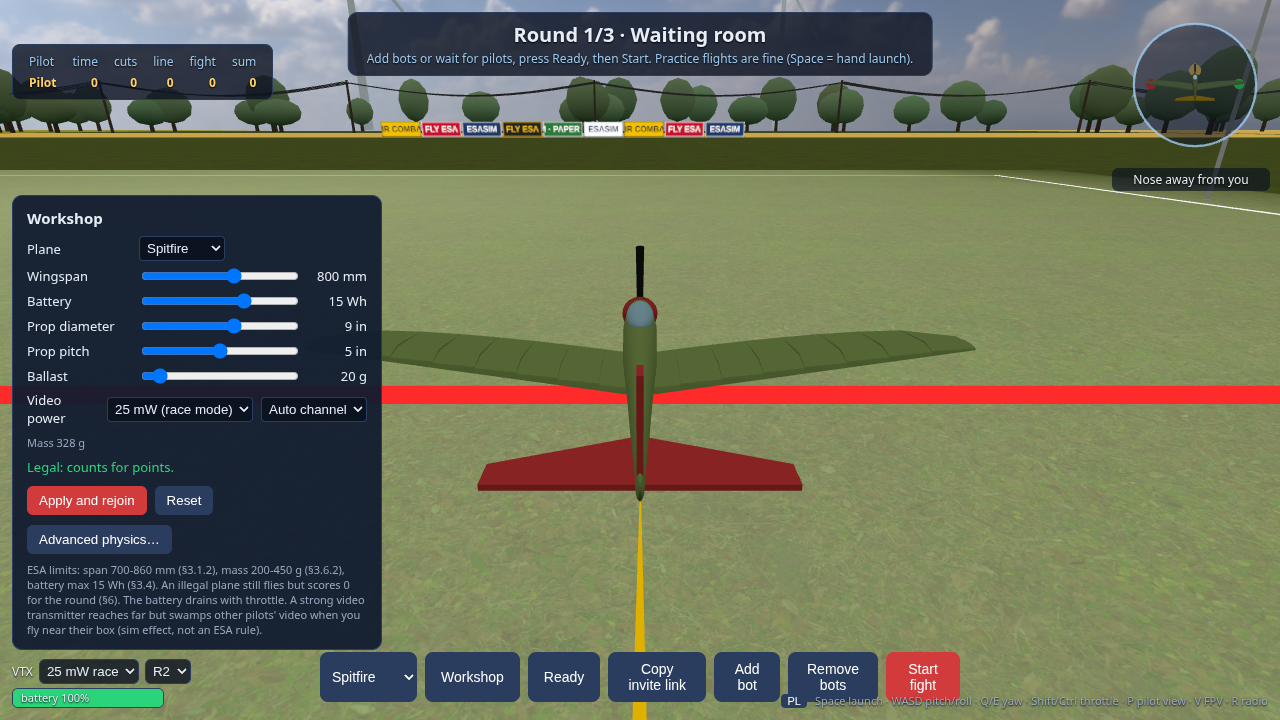
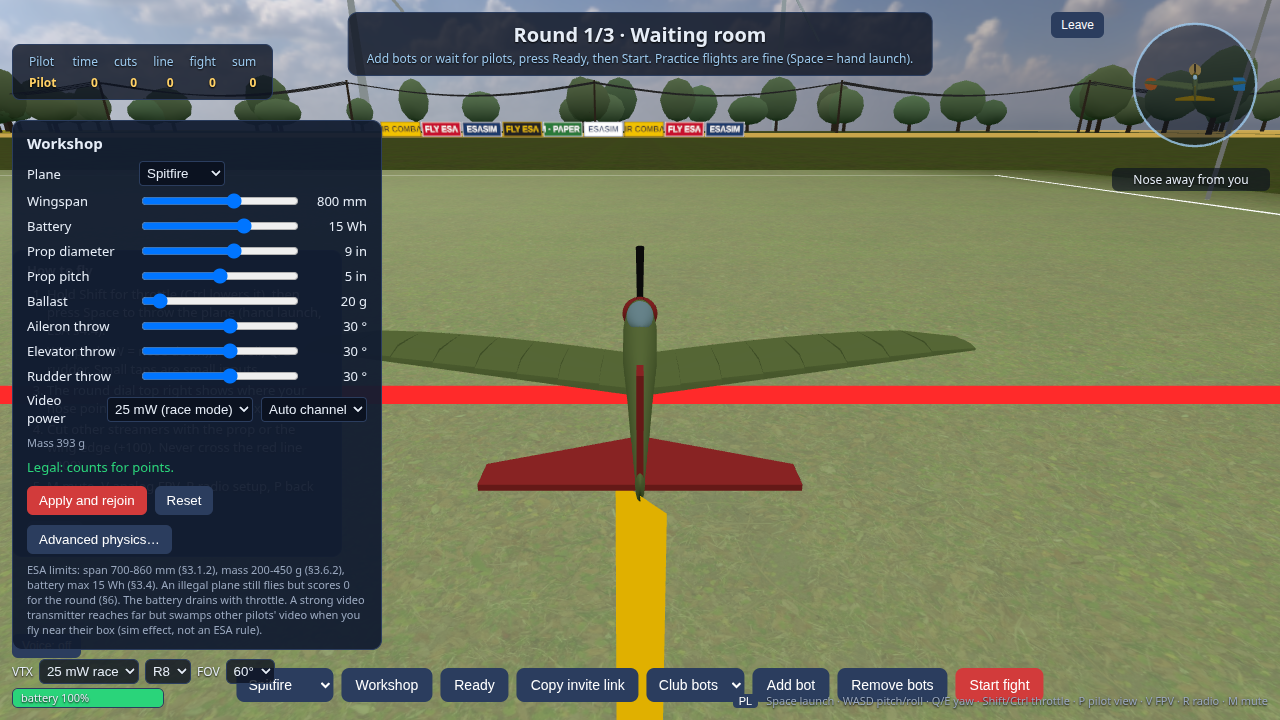
Foamy-aerobat defaults (+20% mass, matching thrust, stronger throw) and adjustable aileron/elevator/rudder throws in the workshop

diff --git a/shared/picasim/esaDef.js b/shared/picasim/esaDef.js
@@ -19,7 +19,12 @@ const DIHEDRAL_DEG = Math.atan(0.06 / 0.40) * 180 / Math.PI;      // 60 mm at th
 
 import { applyOverrides } from "./overrides.js";
 
-export const DEFAULT_BUILD = { plane: "spitfire", spanMm: 800, batteryWh: 15, propDiaIn: 9, propPitchIn: 5, ballastG: 20 };
+// Foamy indoor-aerobat character (Adam, issue #19): 20 % more mass than the first estimates and the motor torque (so thrust) scaled by the same
+// factor, thrust-to-weight stays high; control surfaces are generous and their throws are adjustable per plane (issue #20, degrees of deflection at full stick).
+// (prop thrust grows about with torque^(2/3), so +20 % thrust needs 1.2^1.5 times the torque.)
+export const FOAMY_MASS_PERCENT = 20, FOAMY_THRUST_FACTOR = 1.2;
+export const DEFAULT_THROWS = { aileronDeg: 30, elevatorDeg: 30, rudderDeg: 30 };
+export const DEFAULT_BUILD = { plane: "spitfire", spanMm: 800, batteryWh: 15, propDiaIn: 9, propPitchIn: 5, ballastG: 20, ...DEFAULT_THROWS };
 
 // build: { plane, spanMm, batteryWh, propDiaIn, propPitchIn, ballastG }. Returns an unresolved definition (see aeroplane.js resolveDef).
 export function buildEsaDef(b0 = {}) {
@@ -33,10 +38,10 @@ export function buildEsaDef(b0 = {}) {
     extents: [chord, len, 0.008], wingAspectRatio: AR, wingSpanEfficiency: 0.85, groundEffect: true, ...extra,
   });
   const zOuter = -0.010 + (y2 - y1) * Math.tan(DIHEDRAL_DEG * Math.PI / 180);   // the outer panel starts where the inner one ends
-  const aileron = { CLPerDegree: 0.02, CDPerDegree: 0.06, CMPerDegree: -0.01, flapFraction: 0.3, degreesPerControl: 25, controlRate: 12, controlPerChannel: { 0: 1 }, mass: 0.016 * k };
+  const aileron = { CLPerDegree: 0.02, CDPerDegree: 0.06, CMPerDegree: -0.01, flapFraction: 0.3, degreesPerControl: b.aileronDeg, controlRate: 12, controlPerChannel: { 0: 1 }, mass: 0.016 * k };
   return applyOverrides({
     name: `ESA ${b.plane}`,
-    settings: { sizeScale: 1, massScale: 1, dragScale: 1, engineScale: 1, extraMassPercent: 0 },
+    settings: { sizeScale: 1, massScale: 1, dragScale: 1, engineScale: 1, extraMassPercent: FOAMY_MASS_PERCENT },
     dynamics: { wingSpan: 2 * half, wingChord: meanChord, CMRollFromY: 0.004 },
     aerofoils: AEROFOILS,
     wings: [
@@ -46,17 +51,17 @@ export function buildEsaDef(b0 = {}) {
       { name: "Tail", aerofoil: "Flat", numSections: 2, mass: 0.008, position: [-0.2925, -0.14, 0.008], rotation: [0, 2.5, 0], extents: [0.085, 0.28, 0.006],   // 2.5 degrees of tail incidence: steady full-throttle hand launch
          wingAspectRatio: 3.3,
         wingSpanEfficiency: 0.8, groundEffect: true, washFromWing: [{ name: "Left1", fraction: 0.3 }, { name: "Right1", fraction: 0.3 }], washFromEngine: { name: "Engine", fraction: 0.1 },
-        CLPerDegree: 0.02, CDPerDegree: 0.05, CMPerDegree: -0.01, flapFraction: 0.4, degreesPerControl: 25, controlRate: 12, controlPerChannel: { 1: 1 } },
+        CLPerDegree: 0.02, CDPerDegree: 0.05, CMPerDegree: -0.01, flapFraction: 0.4, degreesPerControl: b.elevatorDeg, controlRate: 12, controlPerChannel: { 1: 1 } },
       { name: "Fin", aerofoil: "Flat", numSections: 2, mass: 0.003, position: [-0.29, 0, 0.010], roll: 90, extents: [0.09, 0.10, 0.006], wingAspectRatio: 1.1,
         wingSpanEfficiency: 0.8, washFromEngine: { name: "Engine", fraction: 0.15 }, CLPerDegree: 0.015, CDPerDegree: 0.05, CMPerDegree: -0.01, flapFraction: 0.4,
-        degreesPerControl: 20, controlRate: 12, controlPerChannel: { 2: -1 } },
+        degreesPerControl: b.rudderDeg, controlRate: 12, controlPerChannel: { 2: -1 } },
       // side area of the fuselage: a very low aspect ratio "wing" standing on edge (as in PicaSim's Spitfire/Extra3D)
       { name: "FuselageVertical", aerofoil: "Flat", numSections: 1, numPieces: 2, mass: 0, position: [-0.03, 0, -0.025], roll: 90, extents: [0.55, 0.055, 0.01], wingAspectRatio: 0.1 },
     ],
     fuselages: [{ name: "Fuselage", mass: 0.035, position: [-0.03, 0, 0], extents: [0.55, 0.05, 0.06], CD: [0.4, 1, 1] }],
     engines: [{
       name: "Engine", position: [0.235, 0, 0], numBlades: 2, radius: r, pitch, bladeChord: 0.07 * r, CL0: 0.3, CLPerDegree: 0.1, CD0: 0.12, CDInducedMultiplier: 1,
-      stallAngle: 14, inertia: 4e-5 * (r / 0.1143) ** 4, maxTorque: 0.06, maxRPM: 12000, minRPM: 0, frictionTorque: 0.001, aeroTorqueScale: 0.3, washRotationFraction: 0.02,
+      stallAngle: 14, inertia: 4e-5 * (r / 0.1143) ** 4, maxTorque: 0.06 * FOAMY_THRUST_FACTOR ** 1.5, maxRPM: 12000, minRPM: 0, frictionTorque: 0.001, aeroTorqueScale: 0.3, washRotationFraction: 0.02,
       propDiskAreaScale: 0.35, controlExp: 1, controlRate: 6, controlPerChannel: { 3: 1 },
     }],
     shapes: [

diff --git a/test/picasim.test.js b/test/picasim.test.js
@@ -22,7 +22,7 @@ const pitchDeg = (p) => deg(Math.asin(fwd(p).y));
   check("aerofoil: stalls (lift drops and drag rises past the stall range, AR 6)", cl(25) <= cl(9) && cd(25) > 5 * cd(5), `CL(9)=${cl(9).toFixed(2)} CL(25)=${cl(25).toFixed(2)}, CD(5)=${cd(5).toFixed(3)} CD(25)=${cd(25).toFixed(2)}`); }
 
 const base = mk();
-check("mass and CG", base.aero.mass > 0.30 && base.aero.mass < 0.36 && Math.abs(base.aero.comOffset.x) < 0.03, `${(base.aero.mass * 1000).toFixed(0)} g, CG x ${(base.aero.comOffset.x * 1000).toFixed(0)} mm`);
+check("mass and CG", base.aero.mass > 0.36 && base.aero.mass < 0.43 && Math.abs(base.aero.comOffset.x) < 0.03, `${(base.aero.mass * 1000).toFixed(0)} g, CG x ${(base.aero.comOffset.x * 1000).toFixed(0)} mm`);
 
 // power system: static thrust and electrical power at full throttle
 { const pl = fly(mk(), 200, 0, 1); run(pl, 1.5, (p) => { p.aero.comVel.set(0, 0, 0); p.aero.omegaB.set(0, 0, 0); p.aero.com.set(0, 0, 200); }); const e = pl.aero.engines[0];
@@ -58,6 +58,12 @@ check("mass and CG", base.aero.mass > 0.30 && base.aero.mass < 0.36 && Math.abs(
   check("roll rate with full aileron", peak > 150 && peak < 600, `${peak.toFixed(0)} deg/s`);
   const q = fly(mk(), 400, 14, 0.5); run(q, 0.5); let pk = 0; q.input.elevator = 1; run(q, 0.8, (p) => { pk = Math.max(pk, Math.abs(deg(p.omega.x))); });
   check("pitch rate with full elevator", pk > 70 && pk < 400, `${pk.toFixed(0)} deg/s`); }
+
+// servo throws (issue #20): a bigger throw gives a faster response, a smaller one a slower response
+{ const rate = (key, v, ax) => { const q = fly(mk({ [key]: v }), 400, 14, 0.5); run(q, 0.5); q.input[key === "aileronDeg" ? "aileron" : "elevator"] = 1; let pk = 0; run(q, 0.7, (p) => { pk = Math.max(pk, Math.abs(deg(p.omega[ax]))); }); return pk; };
+  const r15 = rate("aileronDeg", 15, "z"), r45 = rate("aileronDeg", 45, "z"), e15 = rate("elevatorDeg", 15, "x"), e45 = rate("elevatorDeg", 45, "x");
+  check("aileron throw: 45 degrees rolls faster than 15 degrees", r45 > r15 * 1.4, `${r15.toFixed(0)} -> ${r45.toFixed(0)} deg/s`);
+  check("elevator throw: 45 degrees pitches faster than 15 degrees", e45 > e15 * 1.3, `${e15.toFixed(0)} -> ${e45.toFixed(0)} deg/s`); }
 
 // hand launch (ESA 4.4) at full throttle, hands off: must climb away and not hit the ground
 { const pl = mk(); pl.pos.set(0, 1.4, -3); pl.held = true; pl.input.throttle = 1; pl.launch(); let minY = 99; run(pl, 6, (p) => { minY = Math.min(minY, p.pos.y); });

diff --git a/client/i18n.js b/client/i18n.js
@@ -38,6 +38,7 @@ const dict = {
     "voiceOff": "Voice: off", "voicePtt": "Voice: hold T to talk", "voiceOpen": "Voice: open mic", "voiceErr": "No microphone (needs https or localhost, and permission)",
     "fov": "FOV", "fovTip": "Field of view of the pilot view (FPV stays at 70)",
     "abort": "End match", "leave": "Leave", "abortAsk": "End the match for everybody and return to the waiting room? The running fight is not scored.",
+    "w.aileron": "Aileron throw", "w.elevator": "Elevator throw", "w.rudder": "Rudder throw",
     "round": "Round", "final": "Final",
     "ev.cut": "{a} cut {b}'s streamer  +{p}", "ev.safety": "{a} crossed the safety line  {p}", "ev.dq": "{a} disqualified: second crossing (§4.9)",
     "ev.warn": "Non-engagement warning: go fight (§4.14)", "ev.non": "{a} non-engagement  {p}", "ev.land": "{a} landed in the field  +{p}", "ev.prot": "{a} kept the streamer  +{p}",
@@ -81,6 +82,7 @@ const dict = {
     "voiceOff": "Głos: wyłączony", "voicePtt": "Głos: przytrzymaj T", "voiceOpen": "Głos: mikrofon otwarty", "voiceErr": "Brak mikrofonu (wymaga https lub localhost oraz zgody)",
     "fov": "FOV", "fovTip": "Pole widzenia widoku pilota (FPV zostaje 70)",
     "abort": "Zakończ mecz", "leave": "Wyjdź", "abortAsk": "Zakończyć mecz dla wszystkich i wrócić do poczekalni? Trwająca walka nie będzie liczona.",
+    "w.aileron": "Wychylenie lotek", "w.elevator": "Wychylenie steru wys.", "w.rudder": "Wychylenie steru kier.",
     "round": "Runda", "final": "Finał",
     "ev.cut": "{a} uciął taśmę {b}  +{p}", "ev.safety": "{a} przekroczył linię bezpieczeństwa  {p}", "ev.dq": "{a} zdyskwalifikowany: drugie przekroczenie (§4.9)",
     "ev.warn": "Ostrzeżenie za unikanie walki: leć walczyć (§4.14)", "ev.non": "{a} unikanie walki  {p}", "ev.land": "{a} wylądował na polu  +{p}", "ev.prot": "{a} zachował taśmę  +{p}",

diff --git a/shared/workshop.js b/shared/workshop.js
@@ -7,8 +7,8 @@ import { VTX_POWERS } from "./vtx.js";
 import { buildEsaDef, defMassKg, defSpanMm } from "./picasim/esaDef.js";
 import { isOverridePath } from "./picasim/overrides.js";
 
-export const DEFAULT_BUILD = { plane: "spitfire", spanMm: 800, batteryWh: 15, propDiaIn: 9, propPitchIn: 5, ballastG: 20, vtxMw: 25, vtxCh: -1 };   // vtxCh -1 = auto (the arena picks a free channel)
-export const RANGES = { spanMm: [650, 900, 10], batteryWh: [5, 20, 0.5], propDiaIn: [6, 11, 0.5], propPitchIn: [3, 7, 0.5], ballastG: [0, 250, 5] };
+export const DEFAULT_BUILD = { plane: "spitfire", spanMm: 800, batteryWh: 15, propDiaIn: 9, propPitchIn: 5, ballastG: 20, aileronDeg: 30, elevatorDeg: 30, rudderDeg: 30, vtxMw: 25, vtxCh: -1 };   // vtxCh -1 = auto (the arena picks a free channel)
+export const RANGES = { spanMm: [650, 900, 10], batteryWh: [5, 20, 0.5], propDiaIn: [6, 11, 0.5], propPitchIn: [3, 7, 0.5], ballastG: [0, 250, 5], aileronDeg: [10, 45, 1], elevatorDeg: [10, 45, 1], rudderDeg: [10, 45, 1] };
 const POWER_W = 120;            // DESIGN: motor power at full throttle (the kit motor "min 300 g thrust")
 
 export function clampBuild(b = {}) {

diff --git a/client/workshop.js b/client/workshop.js
@@ -15,7 +15,7 @@ const css = `
 #ws select{background:#0b1220;color:#e6edf7;border:1px solid #2b3d5e;border-radius:4px;padding:3px}
 #ws .ok{color:#2ad47a;margin-top:8px} #ws .bad{color:#ff7a7a;margin-top:4px} #ws button{margin:10px 8px 0 0;padding:7px 12px;border:0;border-radius:6px;background:#2b3d5e;color:#fff;cursor:pointer}
 #ws button.go{background:#d23b3b} #ws .hint{font-size:11px;color:#9aa8bf;margin-top:8px}`;
-const LABELS = { spanMm: [tr("w.span"), "mm"], batteryWh: [tr("w.battery"), "Wh"], propDiaIn: [tr("w.propD"), "in"], propPitchIn: [tr("w.propP"), "in"], ballastG: [tr("w.ballast"), "g"] };
+const LABELS = { spanMm: [tr("w.span"), "mm"], batteryWh: [tr("w.battery"), "Wh"], propDiaIn: [tr("w.propD"), "in"], propPitchIn: [tr("w.propP"), "in"], ballastG: [tr("w.ballast"), "g"], aileronDeg: [tr("w.aileron"), "°"], elevatorDeg: [tr("w.elevator"), "°"], rudderDeg: [tr("w.rudder"), "°"] };
 
 export function mountWorkshop(types, names, build) {
   document.head.append(Object.assign(document.createElement("style"), { textContent: css }));

diff --git a/shared/picasim/plane.js b/shared/picasim/plane.js
@@ -39,7 +39,7 @@ export class PicaPlane {
   }
 
   // Hand launch (ESA §4.4): released at 1.5 m, thrown forward and slightly up.
-  launch(speed = 9, pitchUp = 0.2) {
+  launch(speed = 10, pitchUp = 0.22) {
     if (!this.held) return;
     this.held = false; this.onGround = false;
     this.pos.y = Math.max(this.pos.y, 1.5);

diff --git a/docs/physics.md b/docs/physics.md
@@ -31,3 +31,14 @@ Two layers, both in the UI:
 ## Tests
 
 `npm test` includes `test/picasim.test.js` (aerofoil curves and stall, mass and CG, motor, glide, control directions, rates, hand launch, belly landing, battery, stall, all four planes, speed, parameter overrides) and the headless bot fight. The old lumped model in `shared/flight.js` is kept as a fallback and has its own tests (`test/flight.test.js`).
+
+## Foamy indoor-aerobat character (2026-10-04, issues #19 and #20)
+
+Adam asked for default planes that fly like a foamy indoor aerobatic plane, 20 % heavier than the first estimates, with proportionally more thrust, and for adjustable servo throws.
+
+- **Mass:** `FOAMY_MASS_PERCENT = 20` (`shared/picasim/esaDef.js`, `settings.extraMassPercent`): the default build weighs 393 g (was about 328 g), still inside ESA §3.6.2 (200-450 g).
+- **Thrust:** motor torque x 1.2^1.5 because prop thrust grows about with torque^(2/3); static thrust is now 6.3 N (about 640 g, thrust-to-weight 1.6, 114 W, about 8 min on a 15 Wh pack). DESIGN numbers.
+- **Throws:** aileron, elevator and rudder deflection at full stick are build parameters (`aileronDeg`, `elevatorDeg`, `rudderDeg`, 10-45 degrees, default 30 each, was 25/25/20), sliders in the workshop, saved with the build and sent to the server. They are not an ESA rule, so they do not affect legality, and contest rooms (`?strict=1`) allow them (they are not physics overrides). At full stick: roll about 490 deg/s, pitch about 270 deg/s with the default throws; 15 to 45 degrees of aileron changes the roll rate from about 260 to about 650 deg/s (`test/picasim.test.js`).
+- **Hand launch:** throw speed 10 m/s (was 9) so the heavier plane does not sag into the ground.
+- Not done: a real "foamy" airframe (much lower wing loading, very large control surfaces, 3D-style post-stall); the ESA 200 g minimum rules out an actual indoor foamy of 30-60 g, so the character comes from large authority and a high thrust-to-weight, not from the real mass.
+

diff --git a/CLAUDE.md b/CLAUDE.md
@@ -110,4 +110,5 @@ Still open:
   - **Todo added by Adam (2026-10-04), as GitHub issues:** bots flying closer to the pilots, and a pilot-view field-of-view setting (now fixed at 60 degrees).
   - **FOV setting (issue #17, done):** select 40-90 degrees (default 60) next to the VTX settings, saved in localStorage (`esasim-fov`), pilot view only. **Bots closer (issue #16, open):** measured mean distance 39-41 m and mean height 13 m; a nearer and lower band gave only about 2 m but more line slips, so it was reverted; the limit is the turn radius at crash-safe speed against the 30 m margin. Needs Adam's call on how close is close.
   - **End match / Leave (issue #18, reported by Adam: "when match started i cannot close it"):** host button "End match" (confirm dialog, server `abort` message, host only, returns everybody to the lobby, the aborted fight is not scored) and a "Leave" button for everybody (reloads into offline practice with `?offline=1`). Test in `test/rooms.test.js`.
+  - **Foamy planes and servo throws (Adam, today; issues #19, #20):** default planes are 20 % heavier (393 g) with thrust scaled to match (motor torque x 1.2^1.5, static thrust 6.3 N), hand launch 10 m/s, aileron/elevator/rudder throws are build parameters (10-45 degrees, default 30) with workshop sliders (EN/PL). Interpretation to confirm with Adam: "20 percent more mass then there" = 20 % more than the current defaults (a real indoor foamy of 30-60 g would be below the ESA 200 g minimum). Bots still fly (1 slip in the 3-bot test). `docs/physics.md`.
 
